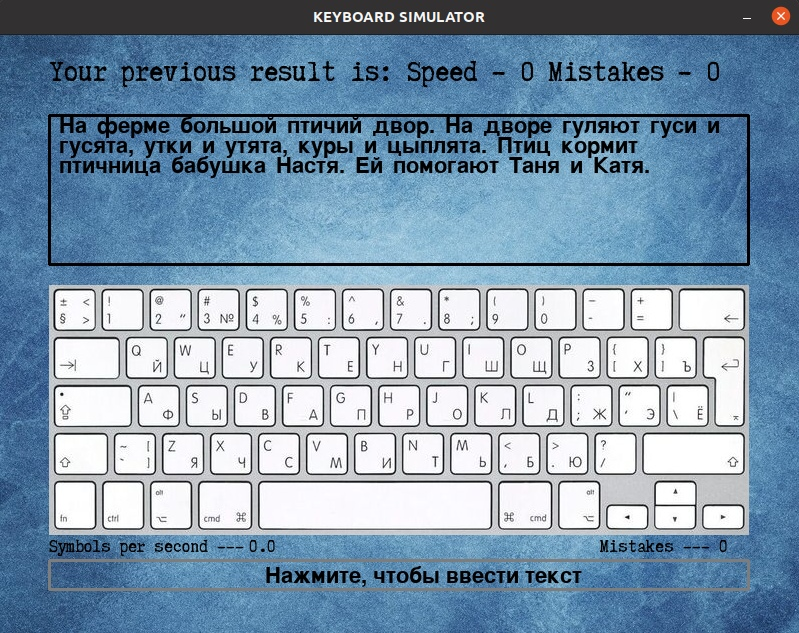
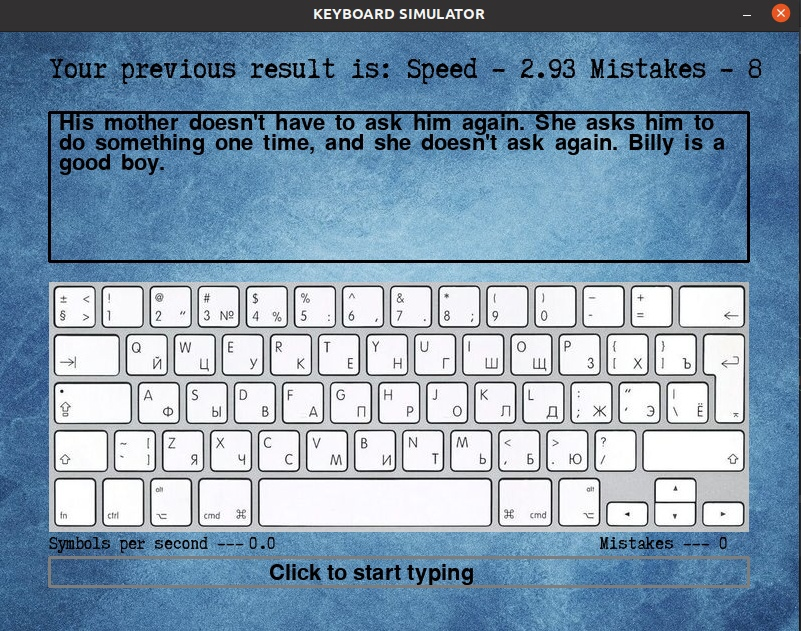
translated interface and corrected images in readme

diff --git a/game.py b/game.py
@@ -35,7 +35,7 @@ def processing_mouse(event):
             global_file.keyboard_is_active = True
             global_file.color_of_input = color.BLACK
             global_file.last_data = ''  # исчезает статистика прошлого запуска
-            if global_file.text_of_input == "Нажмите, чтобы ввести текст":
+            if global_file.text_of_input == "     Сlick to start typing":
                 global_file.text_of_input = ''  # окно ввода становится пустым
                 global_file.timer_of_game = time.time()  # запускается таймер сеанса
 
@@ -73,7 +73,7 @@ def run_keyboard():
     Основная функция, обрабатывающая нажатия
     """
     global_file.keyboard_is_active = False  # нажималось ли на окно ввода
-    global_file.text_of_input = 'Нажмите, чтобы ввести текст'  # текст в окне ввода
+    global_file.text_of_input = '     Сlick to start typing'  # текст в окне ввода
     global_file.cnt_in_text = 0  # какой сейчас символ проверяется
     global_file.mistakes = 0  # количество совершенных ошибок
     global_file.color_of_input = color.GRAY  # цвет окна ввода

diff --git a/README.md b/README.md
@@ -17,9 +17,6 @@ and the **"TRY AGAIN"** button appears for a new typing attempt.
 Before entering the text 
 ![before](screenshots/before_input.jpg) 
 
-While entering text 
-![during](screenshots/during_input.jpg) 
-
 After entering the text 
 ![after](screenshots/after_input.jpg) 
 
